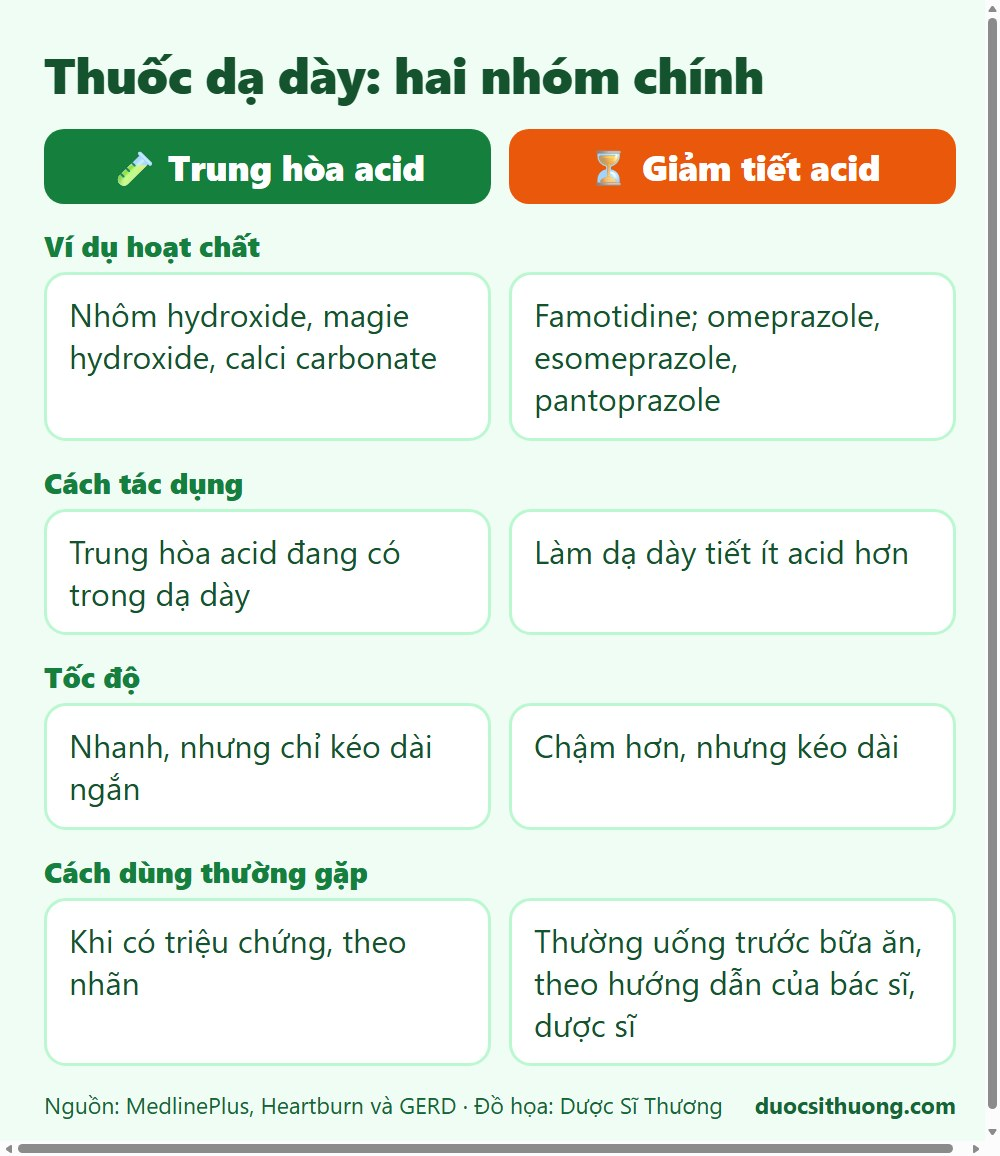
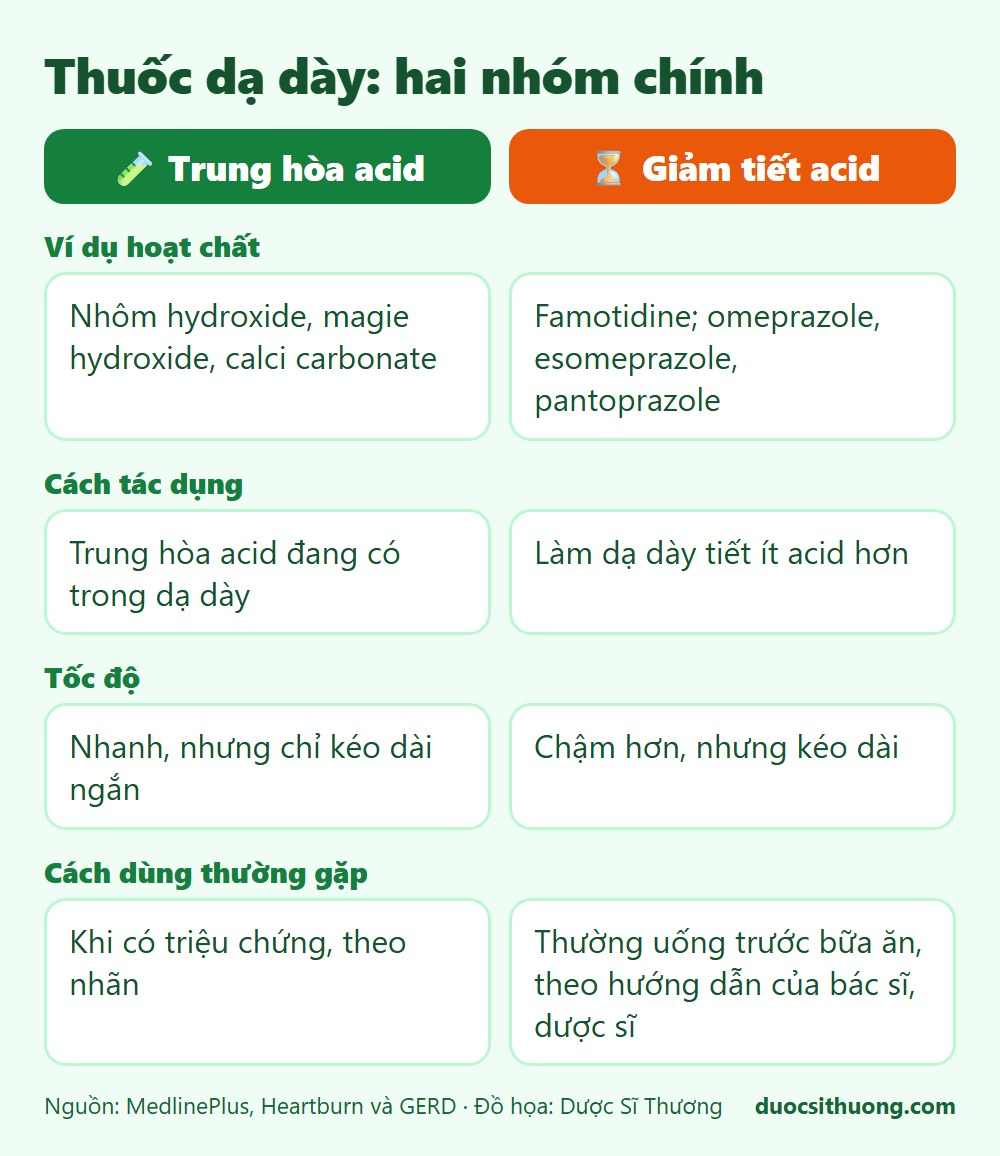
Publish the antibiotics article as a preview; re-render infographics without scrollbars
- Bài kháng sinh: thêm 2 hình minh họa, thêm nguồn MedlinePlus Antibiotics,
  đăng ở dạng bản xem thử (khung vàng, noindex)
- Chụp lại 18 hình của các bài thuốc khác: một số hình bị dính thanh cuộn của trình duyệt
  (đã ẩn thanh cuộn trong mẫu, quét tự động không còn hình nghi vấn)
- Ghi chú kiểm duyệt: WHO Antimicrobial resistance không nêu trực tiếp lời khuyên dùng thuốc
- Cập nhật CLAUDE.md

Changed region(s): [[0.0, 0.9654, 0.961, 1.0], [0.961, 0.0, 1.0, 0.9654]]

diff --git a/CLAUDE.md b/CLAUDE.md
@@ -213,10 +213,10 @@ Bài có `draft: true` hoặc `reviewedBy` để trống thì **không được 
 - **Thêm nhóm mới:** thêm vào `groups` trong `categories.ts` (bắt buộc có `icon`); menu, trang nhóm và sitemap tự cập nhật. Muốn chuyên mục khác cũng có nhóm con thì thêm `groups` cho chuyên mục đó, không cần sửa code khác.
 - **Quy tắc riêng cho bài về thuốc:** không đưa liều dùng cụ thể; nêu chống chỉ định, tác dụng phụ, tương tác, người cần thận trọng (trẻ em, phụ nữ có thai/cho con bú, người cao tuổi, bệnh nền), dấu hiệu cần đi khám/cấp cứu (115); không nêu tên biệt dược/thương hiệu; chỉ dùng tên hoạt chất. Ghi rõ điều nào **chưa đối chiếu trực tiếp với nguồn** trong `docs/` để người kiểm duyệt kiểm tra (xem `docs/ghi-chu-kiem-duyet-nhom-thuoc.md`).
 - **Ảnh đại diện của các bài về thuốc** là ảnh minh họa thống nhất (nhãn nhóm, tiêu đề, biểu tượng emoji, nền xanh lá) do chủ website và Claude thiết kế bằng HTML rồi chụp thành ảnh; ảnh **không chứa số liệu y khoa**.
-- **Hình trong bài về thuốc:** mỗi bài có ảnh đại diện (`cover.jpg`) và 2 hình minh họa trong nội dung (`hinh-1.jpg`, `hinh-2.jpg`) trong `src/assets/posts/<tên-bài>/`: bảng so sánh, danh sách dấu hiệu, các bước. Đều là **đồ họa tự thiết kế**, chỉ dùng thông tin đã có trong bài (không thêm số liệu mới). Dựng bằng HTML/CSS rồi chụp ảnh; khổ rộng 1000px, chữ từ khoảng 30px trở lên để vẫn đọc được trên điện thoại (ảnh thu nhỏ còn khoảng 1/3). Mỗi hình có alt mô tả đầy đủ nội dung và dòng in nghiêng ghi nguồn. Bảng chữ vẫn giữ bên dưới hình để người dùng đọc màn hình và công cụ tìm kiếm có đủ thông tin.
+- **Hình trong bài về thuốc:** (lưu ý kỹ thuật: khi chụp hình từ HTML phải ẩn thanh cuộn của trình duyệt, nếu không ảnh bị dính thanh cuộn xám) mỗi bài có ảnh đại diện (`cover.jpg`) và 2 hình minh họa trong nội dung (`hinh-1.jpg`, `hinh-2.jpg`) trong `src/assets/posts/<tên-bài>/`: bảng so sánh, danh sách dấu hiệu, các bước. Đều là **đồ họa tự thiết kế**, chỉ dùng thông tin đã có trong bài (không thêm số liệu mới). Dựng bằng HTML/CSS rồi chụp ảnh; khổ rộng 1000px, chữ từ khoảng 30px trở lên để vẫn đọc được trên điện thoại (ảnh thu nhỏ còn khoảng 1/3). Mỗi hình có alt mô tả đầy đủ nội dung và dòng in nghiêng ghi nguồn. Bảng chữ vẫn giữ bên dưới hình để người dùng đọc màn hình và công cụ tìm kiếm có đủ thông tin.
 - **"Bản xem thử":** bài hiện trên web nhưng chưa có người kiểm duyệt được đánh dấu bằng `draft: false` và `reviewedBy: "(bản xem thử, chưa được kiểm duyệt)"` (giá trị bắt đầu bằng dấu `(` nghĩa là chỉ ghi chú trạng thái, không phải tên người). Với bài như vậy website tự: hiện khung vàng "Bản xem thử: bài này đang chờ dược sĩ kiểm duyệt" ở đầu bài, ghi "Chưa được kiểm duyệt" ở dòng thông tin, thêm `noindex` để Google không lập chỉ mục, **không** ghi người kiểm duyệt vào dữ liệu schema.org, và ghi "Bản xem thử, chờ kiểm duyệt" ở thẻ bài. Hàm `isPreview()`/`hasRealReviewer()` trong `src/lib/posts.ts`.
 - **Khi dược sĩ đã rà soát một bài:** sửa nội dung nếu cần, đổi `reviewedBy` thành tên người kiểm duyệt thật (không để dấu `(` ở đầu), cập nhật `updatedAt`, và sửa các dòng nguồn "kiến thức chung, đang chờ dược sĩ kiểm duyệt" trong hình (bài đái tháo đường) nếu đã có nguồn. Khung vàng, `noindex` và nhãn tự biến mất.
-- **Trạng thái tháng 9/2026:** 9 bài (giảm đau/hạ sốt, kháng viêm, dạ dày, ho/cảm cúm, dị ứng, vitamin, huyết áp, đái tháo đường, đọc nhãn thuốc) đã đăng ở dạng **bản xem thử theo yêu cầu của chủ website**; đều do AI soạn, **chưa được kiểm duyệt**. Bài kháng sinh (`dung-khang-sinh-dung-cach`) vẫn là `draft: true` nên nhóm Kháng sinh đang trống. Nguồn chủ yếu là MedlinePlus, WHO, FDA; chưa có nguồn Việt Nam (Bộ Y tế, Dược thư quốc gia). Điểm cần dược sĩ kiểm tra: `docs/ghi-chu-kiem-duyet-nhom-thuoc.md`.
+- **Trạng thái tháng 9/2026:** 10 bài (kháng sinh, giảm đau/hạ sốt, kháng viêm, dạ dày, ho/cảm cúm, dị ứng, vitamin, huyết áp, đái tháo đường, đọc nhãn thuốc) đã đăng ở dạng **bản xem thử theo yêu cầu của chủ website**; đều do AI soạn, **chưa được kiểm duyệt**. Bài kháng sinh còn mỏng (thiếu tác dụng phụ, trẻ em, thai kỳ) và nguồn WHO của bài không nêu trực tiếp lời khuyên, đã thêm MedlinePlus Antibiotics. Nguồn chủ yếu là MedlinePlus, WHO, FDA; chưa có nguồn Việt Nam (Bộ Y tế, Dược thư quốc gia). Điểm cần dược sĩ kiểm tra: `docs/ghi-chu-kiem-duyet-nhom-thuoc.md`.
 
 ### Hình ảnh trong bài viết
 

diff --git a/docs/ghi-chu-kiem-duyet-nhom-thuoc.md b/docs/ghi-chu-kiem-duyet-nhom-thuoc.md
@@ -4,15 +4,15 @@ Tài liệu này KHÔNG được đăng lên website. Nó liệt kê, với từ
 
 Cách duyệt một bài: đọc nội dung, kiểm tra các mục bên dưới, sửa trực tiếp trong file `src/content/posts/<tên-bài>.md`, rồi điền `reviewedBy` (tên người kiểm duyệt) và đổi `draft: false`.
 
-Trạng thái: 9 bài đã đăng ở dạng "bản xem thử" (có khung vàng, `noindex`); bài kháng sinh vẫn là bản nháp. Cách hoàn tất một bài: xem mục "Khi dược sĩ đã rà soát một bài" trong CLAUDE.md.
+Trạng thái: cả 10 bài đã đăng ở dạng "bản xem thử" (có khung vàng, `noindex`). Cách hoàn tất một bài: xem mục "Khi dược sĩ đã rà soát một bài" trong CLAUDE.md.
 
 Xem bài ở máy: `npm run dev` rồi mở http://localhost:4321/kien-thuc-ve-thuoc/ (bản chạy thử hiện cả bài nháp).
 
 ## Nguồn đã đối chiếu (đọc trực tiếp nội dung trang)
 
-- MedlinePlus: Pain Relievers, Cold and Cough Medicines, Steroids, Blood Pressure Medicines, Diabetes Medicines, Over-the-Counter Medicines.
+- MedlinePlus: Antibiotics, Pain Relievers, Cold and Cough Medicines, Steroids, Blood Pressure Medicines, Diabetes Medicines, Over-the-Counter Medicines.
 - FDA: The Over-the-Counter Drug Facts Label.
-- WHO: Hypertension, Diabetes.
+- WHO: Hypertension, Diabetes, Antimicrobial resistance (không nêu trực tiếp lời khuyên dùng thuốc, xem mục kháng sinh).
 
 Các trang MedlinePlus Antibiotics, Heartburn, GERD, Allergy, Vitamins, Dietary Supplements và WHO Antimicrobial resistance đã kiểm tra đường dẫn còn truy cập được, nhưng nội dung chi tiết chưa được đối chiếu từng câu.
 
@@ -66,4 +66,7 @@ Nguồn quốc tế; **chưa có nguồn Việt Nam** (Bộ Y tế, Dược thư
 - Cần kiểm tra thêm: đối chiếu với **quy định nhãn thuốc tại Việt Nam** (số đăng ký, nhà sản xuất...); cách bảo quản và xử lý thuốc hết hạn tại Việt Nam.
 
 ### dung-khang-sinh-dung-cach (Kháng sinh, bài đã có từ trước)
-- Nguồn: WHO Antimicrobial resistance. Nội dung nên đối chiếu thêm với hướng dẫn sử dụng kháng sinh của Bộ Y tế Việt Nam.
+- Đã có nguồn (MedlinePlus, Antibiotics): kháng sinh chỉ tác dụng với vi khuẩn, không với cảm lạnh, cúm, phần lớn đau họng; dùng thừa gây kháng thuốc; không giữ thuốc thừa, không chia sẻ, không dùng thuốc của người khác; có tác dụng phụ và dị ứng nặng.
+- **Trang WHO Antimicrobial resistance (bản đã đọc) không nêu trực tiếp** các lời khuyên cho từng người (chỉ dùng khi có chỉ định, không đòi kê, không dùng thuốc thừa, rửa tay...); nó chỉ nói về nguyên nhân kháng thuốc ở mức hệ thống (dùng kháng sinh không phù hợp, thiếu nước sạch và vệ sinh, thiếu vắc xin...). Nguồn này chỉ nên coi là bối cảnh.
+- Cần kiểm tra thêm: cách diễn đạt "đúng thời gian" (MedlinePlus khuyên dùng đủ đợt theo chỉ định dù đã thấy đỡ); mục phòng bệnh (rửa tay, tiêm chủng, ăn chín); các dấu hiệu cần đi khám (sốt cao kéo dài, đau tai, tiểu buốt, vết thương có mủ...).
+- **Bài còn mỏng so với các bài khác**: chưa có phần tác dụng phụ thường gặp, tương tác, trẻ em, phụ nữ có thai, cho con bú. Nên bổ sung khi duyệt. Nên đối chiếu thêm hướng dẫn sử dụng kháng sinh của Bộ Y tế Việt Nam.

diff --git a/src/content/posts/dung-khang-sinh-dung-cach.md b/src/content/posts/dung-khang-sinh-dung-cach.md
@@ -9,10 +9,12 @@ cover: "../../assets/posts/dung-khang-sinh-dung-cach/cover.jpg"
 coverAlt: "Ảnh minh họa bài viết về kháng sinh: nhãn nhóm thuốc, tiêu đề bài và biểu tượng vi khuẩn trên nền xanh lá"
 coverCredit: "Đồ họa: Dược Sĩ Thương"
 sources:
+  - title: "MedlinePlus - Antibiotics (Kháng sinh)"
+    url: "https://medlineplus.gov/antibiotics.html"
   - title: "WHO - Antimicrobial resistance (Kháng thuốc kháng sinh)"
     url: "https://www.who.int/news-room/fact-sheets/detail/antimicrobial-resistance"
-reviewedBy: ""
-draft: true
+reviewedBy: "(bản xem thử, chưa được kiểm duyệt)"
+draft: false
 ---
 
 ## Tóm tắt nhanh
@@ -21,6 +23,9 @@ Kháng sinh là thuốc kê đơn dùng để điều trị **nhiễm khuẩn**.
 
 ## Những điều cần nhớ
 
+![Năm điều cần nhớ khi dùng kháng sinh: không diệt được virus, chỉ dùng khi có chỉ định, không tự yêu cầu kê, đúng liều đúng thời gian, không dùng thuốc còn thừa và không chia sẻ](../../assets/posts/dung-khang-sinh-dung-cach/hinh-1.jpg)
+*Đồ họa: Dược Sĩ Thương. Nguồn: MedlinePlus.*
+
 - **Kháng sinh không diệt được virus.** Cảm lạnh, cúm và phần lớn các trường hợp ho, đau họng do virus gây ra, nên dùng kháng sinh không giúp ích.
 - **Chỉ dùng kháng sinh khi có chỉ định** của bác sĩ hoặc nhân viên y tế có chuyên môn.
 - **Không tự yêu cầu kê kháng sinh** nếu bác sĩ cho biết bạn không cần.
@@ -28,6 +33,9 @@ Kháng sinh là thuốc kê đơn dùng để điều trị **nhiễm khuẩn**.
 - **Không dùng thuốc còn thừa** từ lần điều trị trước và không chia sẻ kháng sinh cho người khác.
 
 ## Giảm nhu cầu dùng kháng sinh bằng cách phòng bệnh
+
+![Ba cách phòng bệnh để giảm nhu cầu dùng kháng sinh: rửa tay thường xuyên, tiêm chủng đầy đủ, ăn chín uống chín; nhắc ngưng thuốc và đến cơ sở y tế nếu nổi mẩn, ngứa, khó thở, sưng môi mặt](../../assets/posts/dung-khang-sinh-dung-cach/hinh-2.jpg)
+*Đồ họa: Dược Sĩ Thương. Nguồn: WHO và MedlinePlus.*
 
 - Rửa tay thường xuyên.
 - Tiêm chủng đầy đủ theo khuyến cáo.
